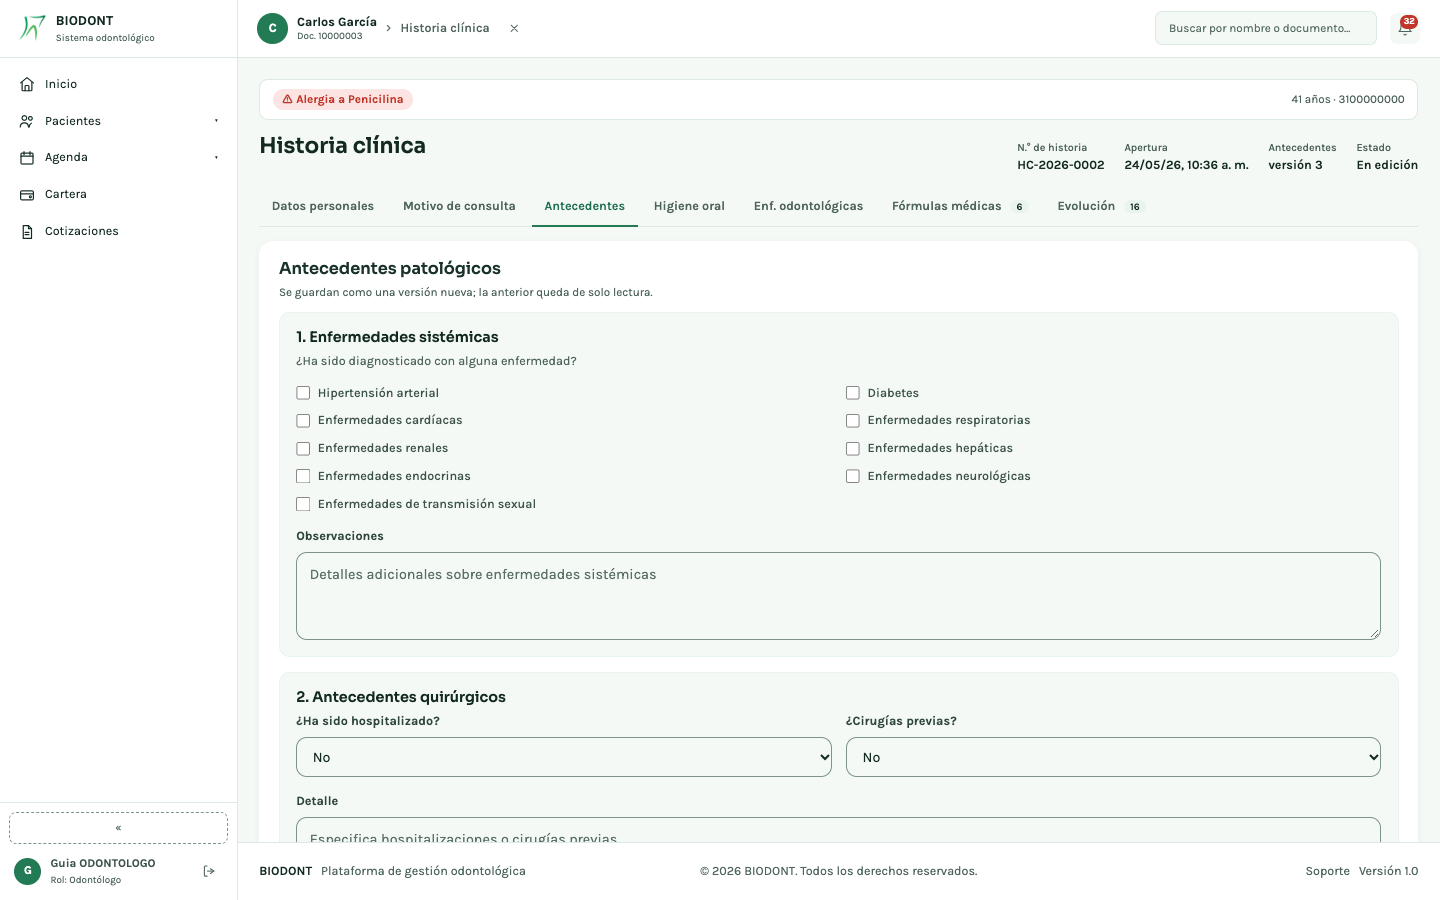
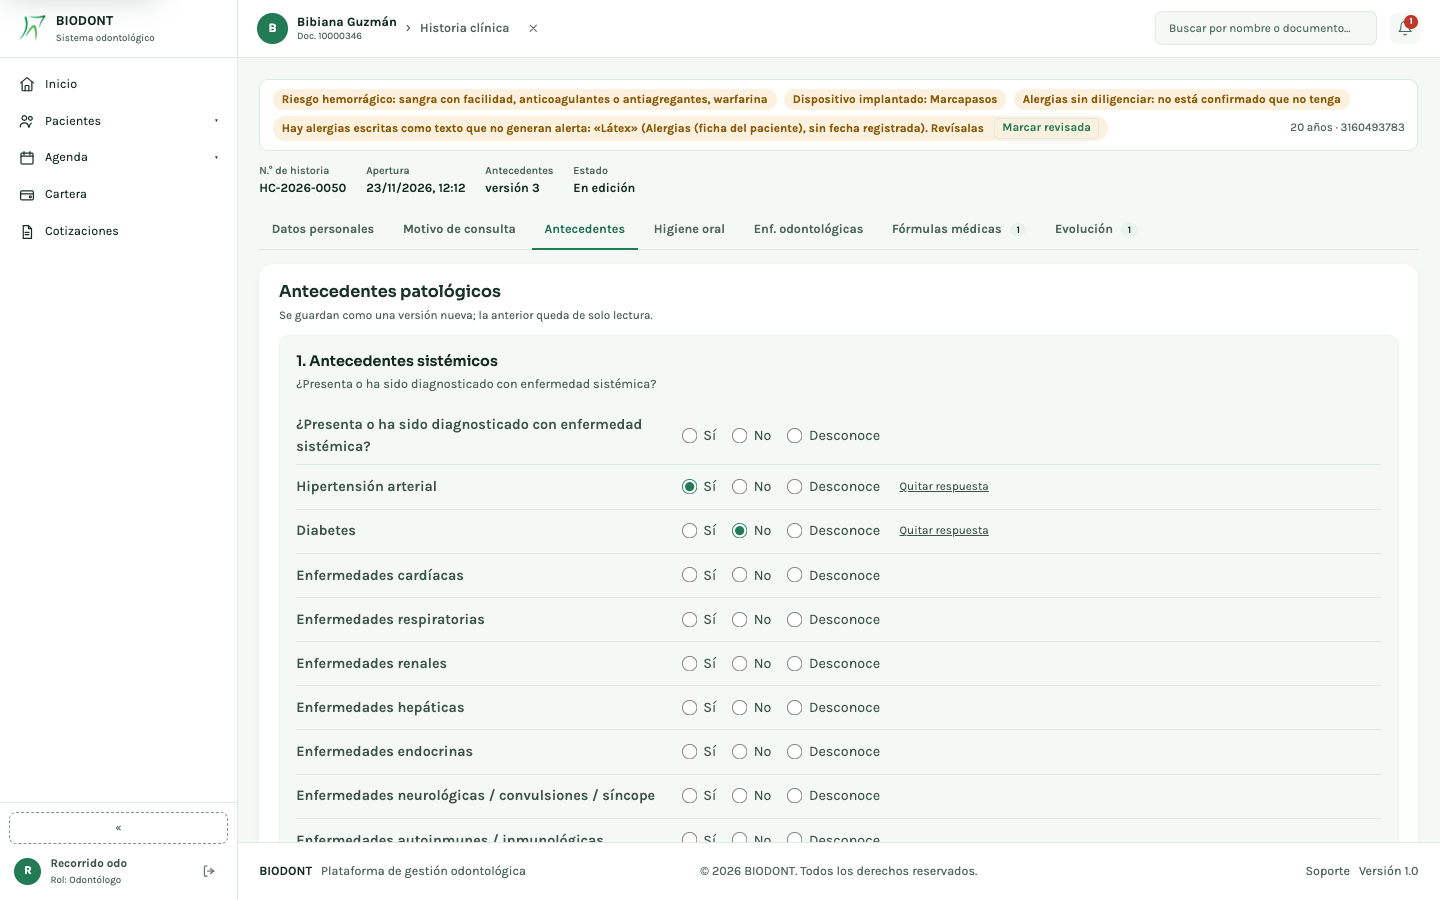
Manual: publicado desde el workspace (2026-11-24)

diff --git a/Manual-Biodont.html b/Manual-Biodont.html
@@ -174,8 +174,8 @@ table.constancia td{height:42px}
 
 <h1>Manual de Biodont</h1>
 <p class="sub">Sistema de gestión para consultorio odontológico · Versión 1.0</p>
-<p class="sub" id="build-manual">Describe Biodont con el servidor <code>638f10a</code> y las pantallas <code>8c1311b</code> (versión de la pantalla <code>main-CBP3PXPW</code>) · revisado el 2026-11-20.</p>
-<!-- Detalle técnico: servidor (backend) 638f10a, pantallas (front odontograma) 8c1311b, bundle main-CBP3PXPW; validado el 2026-11-20. Si la versión de su pantalla es otra, este manual puede no coincidir. -->
+<p class="sub" id="build-manual">Describe Biodont con el servidor <code>0a2cce7</code> y las pantallas <code>8b5c2a6</code> (versión de la pantalla <code>main-6RF6ECQT</code>) · revisado el 2026-11-24.</p>
+<!-- Detalle técnico: servidor (backend) 0a2cce7, pantallas (front odontograma) 8b5c2a6, bundle main-6RF6ECQT (master con la tanda «pedidos del consultorio» P1–P7 y Q1–Q8 y la medicación actual con radios, desplegado el 2026-11-24); validado el 2026-11-24. Si la versión de su pantalla es otra, este manual puede no coincidir. -->
 
 <div class="caja nota">
   <span class="et">Cómo está organizado</span>
@@ -637,10 +637,80 @@ crea una nueva en cada visita: lo que se registra por visita es la <a href="#ate
 </ol>
 
 <figure>
-  <img src="capturas/06-historia-clinica.png" alt="Historia clínica con sus pestañas y la franja de alergias">
-  <figcaption>La historia clínica, con sus pestañas y, arriba, la franja de alergias del
-  paciente.</figcaption>
+  <img src="capturas/06-historia-clinica.png" alt="Historia clínica en la pestaña Antecedentes, con la franja de condiciones arriba y las filas con Sí, No y Desconoce">
+  <figcaption>La historia clínica, con sus pestañas y, arriba, la franja de condiciones del
+  paciente (aquí, riesgo hemorrágico y un dispositivo implantado). Abajo, la pestaña Antecedentes.</figcaption>
 </figure>
+
+<h3>Datos personales</h3>
+<p>En la pestaña <b>Datos personales</b> están los datos administrativos de la historia. Lo que se escribe aquí es:</p>
+<ul>
+  <li><b>Número de historia clínica</b> y, junto a él, <b>Número de hoja (opcional)</b>: el número de la hoja o tarjeta de papel que el paciente
+  tiene en el archivo del consultorio. Es <b>uno por paciente</b> (no uno por atención), puede llevar ceros a la izquierda («0345») y no se exige que sea
+  distinto del de otro paciente. El <b>Resumen</b> del paciente lo muestra junto al número de historia («Historia HC-… · Hoja N»).</li>
+  <li><b>Municipio / Departamento</b> (antes «Lugar de residencia»; el dato es el mismo), <b>Ocupación</b>, <b>Estado civil</b> y <b>Sexo</b>.</li>
+  <li>El acompañante, en este orden: <b>Nombre del acompañante</b>, <b>Documento del acompañante</b>, <b>Parentesco</b> y <b>Teléfono del acompañante</b>.
+  El acompañante <b>solo acompaña</b>: no es el representante legal del paciente ni autoriza nada.</li>
+</ul>
+<p>Estos datos se ven pero <b>no se editan aquí</b>, porque se corrigen en la ficha del paciente: <b>Tipo de documento</b>, <b>Documento de identidad</b>,
+<b>Teléfono</b>, <b>Correo electrónico</b>, nombres y apellidos, fecha de nacimiento, EPS y dirección. Si la ficha no tiene el dato, el campo dice
+«Sin registrar en la ficha».</p>
+<figure>
+  <img src="capturas/83-datos-personales.png" alt="Pestaña Datos personales con el número de hoja, los datos de la ficha en solo lectura y los del acompañante">
+  <figcaption>Datos personales de una paciente de ejemplo: el número de hoja junto al de historia, los datos de la ficha en solo lectura (más oscuros) y,
+  abajo, «Municipio / Departamento» y el acompañante con su documento.</figcaption>
+</figure>
+
+<h3 id="antecedentes-plantilla">Antecedentes: la plantilla del consultorio</h3>
+<p>La pestaña <b>Antecedentes</b> sigue la plantilla del consultorio, en siete bloques: <b>1. Antecedentes sistémicos</b>, <b>2. Antecedentes quirúrgicos y
+hospitalarios</b>, <b>3. Medicación actual</b>, <b>4. Alergias</b> (se llenan como se explica en <a href="#alergias">Registrar una alergia</a>),
+<b>5. Antecedentes hematológicos</b>, <b>6. Gineco-obstétricos</b> y <b>7. Hábitos generales</b>. Cada bloque tiene su cuadro de <b>Observaciones</b>.</p>
+<ul>
+  <li><b>Cada pregunta se responde con Sí, No o Desconoce</b>, en una misma línea. Una pregunta sin responder queda <b>sin diligenciar</b> (no es un «No»).
+  «Desconoce» significa que se preguntó y el paciente no sabe.</li>
+  <li><b>Quitar respuesta</b> aparece junto a las preguntas que ya tienen respuesta y la devuelve a «Sin diligenciar». Si esa respuesta <b>ya estaba guardada</b>,
+  la barra de guardado nombra la pregunta y pide el <b>motivo</b>, como se explica arriba en «Devolver una respuesta a «Sin diligenciar» pide el motivo».</li>
+  <li><b>«Especifique», «¿Cuál?» y los demás textos de apoyo solo se habilitan con la respuesta que los pide</b> (casi siempre «Sí»; en tabaco y alcohol, también
+  «Exconsumidor»). Si cambia la respuesta a otra, <b>el texto se vacía</b> a la vista: no queda escrito en silencio. Por ejemplo, con «¿Tiene dispositivos
+  médicos implantados?» en «Sí» se habilita «¿Cuál?» (Ej. Marcapasos); si pasa a «No», «¿Cuál?» se borra.</li>
+  <li><b>1. Sistémicos</b>: la pregunta general «¿Presenta o ha sido diagnosticado con enfermedad sistémica?» y una fila por cada grupo (hipertensión, diabetes, cardíacas,
+  respiratorias, renales, hepáticas, endocrinas, neurológicas / convulsiones / síncope, autoinmunes / inmunológicas, infecciosas relevantes, oncológicos, óseas y
+  transmisión sexual), más «Otra enfermedad» (Sí o No, con «Especifique»).</li>
+  <li><b>2. Quirúrgicos y hospitalarios</b>: hospitalizaciones previas (con «motivo y fecha aproximada»), cirugías previas (con «cirugía y fecha aproximada»),
+  complicaciones quirúrgicas y dispositivos médicos implantados.</li>
+  <li><b>3. Medicación actual</b>: «¿Actualmente toma medicamentos?» con una lista desplegable (Sin diligenciar, Sí, No); solo con «Sí» aparece la tabla de
+  medicamento, dosis y frecuencia. <b>Esta lista es lo que el paciente refiere tomar</b>; las fórmulas que el consultorio emite se registran aparte (ver
+  <a href="#formulas-ordenes">Fórmulas, órdenes de estudio y remisiones</a>).</li>
+  <li><b>5. Hematológicos</b>: ¿sangra con facilidad?, trastorno de coagulación diagnosticado, anemia, hemofilia, trombocitopenia / otro trastorno (con «Especifique») y
+  anticoagulantes / antiagregantes.</li>
+  <li><b>6. Gineco-obstétricos</b>: empieza con <b>¿Aplica este apartado?</b> (<b>Aplica</b> o <b>No aplica</b>). Con «No aplica» se ocultan las demás preguntas y la
+  pantalla dice «No aplica: las demás preguntas del apartado no se guardan.». Si ya tenían respuestas guardadas, pasar a «No aplica» las deja sin diligenciar y
+  <b>pide el motivo</b>, igual que «Quitar respuesta». El <b>embarazo</b> admite «Desconoce / posible»; el trimestre solo se pregunta con embarazo en «Sí».</li>
+  <li><b>7. Hábitos</b>: tabaco y alcohol con Sí, No o <b>Exconsumidor</b> (con tipo de tabaco —cigarrillo, tabaco, vapeador u otro—, cantidad o frecuencia), y sustancias
+  psicoactivas (sustancia, frecuencia y último consumo).</li>
+</ul>
+<figure>
+  <img src="capturas/84-antecedentes-quirurgicos.png" alt="Bloque 2 de antecedentes: hospitalizaciones con su motivo, cirugías con el texto deshabilitado y un marcapasos como dispositivo implantado">
+  <figcaption>Bloque 2: con «Hospitalizaciones previas» en «Sí» el texto de motivo y fecha está habilitado; con «Cirugías previas» en «No» está
+  deshabilitado. «Quitar respuesta» aparece solo donde hay respuesta.</figcaption>
+</figure>
+<figure>
+  <img src="capturas/85-antecedentes-gineco.png" alt="Bloque 6 de antecedentes: ¿Aplica este apartado?, embarazo, lactancia y embarazo de alto riesgo">
+  <figcaption>Bloque 6, con «¿Aplica este apartado?» sin responder y las demás preguntas a la vista.</figcaption>
+</figure>
+<div class="caja nota">
+  <span class="et">Lo guardado antes de esta plantilla se sigue leyendo</span>
+  <p>Los antecedentes sistémicos antes eran casillas. En una historia vieja, una casilla <b>marcada</b> se lee como <b>«Sí»</b>; una casilla <b>sin marcar</b> se lee
+  como <b>«Sin diligenciar»</b>, nunca como «No», porque nadie respondió «No». Lo que el paciente refirió con texto libre sigue en las observaciones. Al guardar de
+  nuevo, queda en el formato nuevo y la versión anterior se conserva.</p>
+</div>
+<div class="caja aviso">
+  <span class="et">Alertas nuevas en la franja de condiciones</span>
+  <p>Además de las que ya había, la franja de arriba de las pantallas del paciente avisa de: <b>riesgo hemorrágico</b> cuando hay «Sí» en sangra con facilidad,
+  trastorno de coagulación, hemofilia, trombocitopenia o anticoagulantes / antiagregantes; <b>dispositivo implantado</b>, con su nombre («Dispositivo implantado:
+  Marcapasos»); y <b>embarazo</b> también con «Desconoce / posible» (dice «posible embarazo (no lo sabe)»), embarazo de alto riesgo y lactancia. Con el bloque
+  gineco-obstétrico en «No aplica» no salta nada de él. «Desconoce» en una enfermedad <b>no</b> la afirma: no genera alerta.</p>
+</div>
 
 <div class="caja aviso">
   <span class="et">Cada botón guarda lo suyo</span>
@@ -787,6 +857,13 @@ remisiones</b>, <b>Archivos</b> y <b>Constancias y correcciones</b>.</p>
   diagnóstico, la fórmula, pedir un estudio, el cobro cuando ya eligió el cargo…): si hay algo escrito y pulsa <b class="btn">Cancelar</b>, la ✕ o Escape, el sistema <b>no cierra
   sin más</b>: pregunta «Hay datos escritos. ¿Descartarlos y cerrar?» y ofrece <b class="btn">Seguir escribiendo</b> o <b class="btn">Descartar</b>. Con la ventana
   vacía, cierra directamente.</li>
+  <li><b>El campo Diagnóstico busca en la CIE-10 oficial.</b> Escriba parte del nombre o el código (por ejemplo «caries» o «K02.1»): el sistema
+  ofrece coincidencias de la CIE-10 en español del Ministerio de Salud (SISPRO). Elíjala con el ratón o con las flechas y <b class="btn">Enter</b>: se llenan el
+  texto y el código, y la ventana muestra <b>«Código elegido: … · Quitar»</b>. Los nombres oficiales vienen <b>sin tildes</b> («Maloclusion de tipo no
+  especificado»); se pueden corregir a mano, y corregir tildes no genera ningún aviso. Si, en cambio, cambia el texto por <b>otro diagnóstico</b>, la ventana avisa
+  que el código elegido <b>no corresponde</b> y le pide revisar que sea el diagnóstico; no lo cambia por usted: <b>Quitar</b> o corregir el código es decisión suya.
+  También puede escribir el diagnóstico a mano, sin elegir ninguna coincidencia. Mientras el catálogo se descarga, el campo dice <b>«Cargando el catálogo…»</b>; si no se pudo cargar, dice
+  <b>«No se pudo cargar el catálogo: escribe el diagnóstico a mano.»</b> y el diagnóstico se registra igual, sin código. Si quita el código elegido con <b>Quitar</b>, el cursor vuelve al campo del diagnóstico.</li>
   <li>Debajo, <b>Sugeridos por el odontograma</b> propone diagnósticos con su código CIE-10 —y,
   cuando lo hay, el CIE-11— a partir de lo marcado. Solo se guarda lo que usted <b class="btn">Confirmar</b>: el sistema
   sugiere, el diagnóstico lo hace el profesional.</li>
@@ -798,7 +875,27 @@ remisiones</b>, <b>Archivos</b> y <b>Constancias y correcciones</b>.</p>
   solo lectura: se editan en la historia clínica.</li>
   <li>En <b>Próximo control</b> elija un atajo (1 semana, 15 días, 1 mes, 6 meses) o una fecha, y
   el motivo. Recepción lo verá en su Inicio para agendarlo.</li>
+  <li>Al final de la pestaña <b>Consulta</b> está <b>Medicación</b>, con <b>Sí</b> / <b>No</b> y <b class="btn">+ Agregar medicamento</b>. Cada medicamento se
+  receta como una <b>fórmula médica</b>, con su revisión de alergias, y queda <b>ligada a esta atención</b>: <b class="btn">+ Agregar medicamento</b> (o
+  elegir <b>Sí</b>) abre la fórmula en la historia clínica y, al emitirla, usted <b>vuelve solo a la atención</b>. La lista muestra cada medicamento con la fecha de su
+  fórmula. <b>«Sí» no se guarda aparte</b>: significa que hay fórmulas vigentes ligadas a esta atención; mientras las haya, «No» está deshabilitado y, para quitar
+  una, se anula desde <b>Fórmulas médicas</b>. Se puede agregar medicación en una atención ya firmada: la fórmula es su propio documento. Como las fórmulas son
+  solo del odontólogo, a quien no puede verlas la sección le dice «No tienes permiso para ver la medicación.»</li>
 </ol>
+
+<figure class="estrecha">
+  <img src="capturas/86-medicacion-atencion.png" alt="Sección Medicación de la atención con Sí marcado, un medicamento y la nota de que Sí significa que hay fórmulas ligadas">
+  <figcaption>Medicación de la atención, con una fórmula ya emitida: «Sí» está marcado porque hay una fórmula ligada.</figcaption>
+</figure>
+
+<figure>
+  <img src="capturas/87-diagnostico-buscador-cie10.png" alt="Ventana Nuevo diagnóstico con el buscador de la CIE-10 mostrando una coincidencia con su código">
+  <figcaption>Al escribir «maloclus» el buscador ofrece la coincidencia oficial, con su código (K07.4).</figcaption>
+</figure>
+<figure>
+  <img src="capturas/88-diagnostico-codigo-aviso.png" alt="Ventana Nuevo diagnóstico con el código K07.4 elegido y el aviso de que no corresponde al texto escrito">
+  <figcaption>Con el código elegido, y el texto cambiado a otro diagnóstico: la ventana avisa que el código no corresponde.</figcaption>
+</figure>
 
 <figure>
   <img src="capturas/22-atencion-borrador.png" alt="Atención sin firmar con sus pasos y sus pestañas">
@@ -878,7 +975,17 @@ consulta.</p>
   <li>Elija la <b>pieza</b> (o marque <b>No aplica</b>), el tratamiento en curso si lo hay, y
   escriba <b>lo que se hizo</b> y lo que queda <b>por hacer en la próxima sesión</b>.</li>
   <li>El auxiliar además indica la <b>actuación autorizada</b> que ejecutó.</li>
+  <li><b>Procedimiento (opcional)</b>: cuando <b>no hay un tratamiento en curso</b> (el campo «Tratamiento en curso» dice «Sin tratamiento») y quien registra no es el
+  auxiliar, aparece un buscador del <b>tarifario</b>: escriba el nombre o el código («exodoncia», «230101») y elija. La evolución queda con ese procedimiento y su
+  código. Dice <b>«No genera ningún cobro: los cobros salen del presupuesto.»</b>: es solo el registro de lo que se hizo. Los procedimientos propios del consultorio
+  (los que no son del catálogo oficial) salen como <b>«propio · no va al RIPS»</b>, ya al elegirlos en el buscador y después en la lista de la evolución. Si el buscador no carga, la evolución se puede
+  registrar igual, sin procedimiento.</li>
 </ol>
+
+<figure>
+  <img src="capturas/89-evolucion-procedimiento.png" alt="Ventana Registrar evolución con el buscador de procedimientos mostrando coincidencias de exodoncia con su código">
+  <figcaption>Registrar evolución sin tratamiento en curso: el buscador de «Procedimiento (opcional)» y, debajo, el aviso de que no genera ningún cobro.</figcaption>
+</figure>
 
 <figure>
   <img src="capturas/26-evolucion.png" alt="Pestaña Evolución con una sesión registrada">
@@ -888,7 +995,7 @@ consulta.</p>
 
 <h3>Corregir un diagnóstico</h3>
 <p>Si escribió mal un diagnóstico, pulse <b class="btn">Corregir</b> junto a él y arregle el
-texto, el código o el tipo. <b>No use «Quitar» para volver a añadirlo</b>: al corregir se
+texto, el código o el tipo; la ventana usa el <b>mismo buscador de la CIE-10</b> que «Nuevo diagnóstico» y ya trae elegido el código que el diagnóstico tenía. <b>No use «Quitar» para volver a añadirlo</b>: al corregir se
 conserva quién lo registró y cuándo, y al borrar y recrear esos dos datos cambian — en un
 documento que se conserva quince años, eso no es lo mismo.</p>
 
@@ -955,7 +1062,7 @@ alteró.</p>
   <tbody>
     <tr><td><b class="btn">Cerrar atención</b></td><td>Da la visita por terminada. Es el último paso del ciclo.</td></tr>
     <tr><td><b class="btn">Agregar corrección</b></td><td>Añade una <b>adenda</b>, en la pestaña <b>Constancias y correcciones</b>. Lo firmado no se toca: la corrección se suma después, fechada y firmada, como manda la norma para un documento clínico.</td></tr>
-    <tr><td><b class="btn">Imprimir (PDF)</b></td><td>Descarga el impreso de la atención con todo lo registrado, sus firmas y su huella. Solo lo obtiene quien puede ver todo su contenido: a un rol que no ve alguna parte (el auxiliar sin actuaciones habilitadas, por ejemplo) el botón aparece desactivado y, al pasar el cursor, dice por qué. Si hay cambios sin guardar, guarde antes: el impreso es lo guardado.</td></tr>
+    <tr><td><b class="btn">Imprimir (PDF)</b></td><td>Descarga el impreso de la atención con todo lo registrado, sus firmas y su huella. Solo lo obtiene quien puede ver todo su contenido: a un rol que no ve alguna parte (el auxiliar sin actuaciones habilitadas, por ejemplo) el botón aparece desactivado y, al pasar el cursor, dice por qué. Si hay cambios sin guardar, guarde antes: el impreso es lo guardado. Trae, junto al número de hoja, los datos del <b>acompañante</b> que tengan valor (el PDF de evoluciones también), y una línea <b>«Medicación: Sí — fórmula del …»</b> por cada fórmula vigente ligada (o «No»), sin dosis; a quien no puede ver la medicación no se le imprime esa línea.</td></tr>
     <tr><td><b class="btn">Comprobar integridad</b></td><td>Verifica que el contenido firmado no ha sido alterado. Si algo cambió por fuera del sistema, lo dice.</td></tr>
     <tr><td><b class="btn">Anular</b></td><td>Deja la atención sin efecto <b>dejando constancia</b> de quién la anuló y por qué. No la borra. <b>Tampoco anula sus evoluciones</b>: antes de confirmar, la ventana dice cuántas siguen vigentes y en cuántos tratamientos, y al terminar lo repite.</td></tr>
   </tbody>
@@ -982,7 +1089,7 @@ responsable clínico (el odontólogo que Administración marcó como tal), aunqu
 constancia de quién y por qué.</p>
 
 <h3>La fórmula médica</h3>
-<p>Vive en la <b>historia clínica</b> del paciente, no en la atención.</p>
+<p>Vive en la <b>historia clínica</b> del paciente. También se puede emitir <b>desde una atención</b> (sección «Medicación», ver <a href="#atender">Atender y firmar la atención</a>): esa fórmula queda ligada a la atención y, en la lista, dice <b>«De la atención N»</b> con un enlace que lleva a ella. Las que se emiten desde Fórmulas médicas no dicen nada, como siempre.</p>
 <ol class="pasos">
   <li>Abra el paciente → <b class="btn">Historia clínica</b> → pestaña <b class="btn">Fórmulas médicas</b>.</li>
   <li>Pulse <b class="btn">+ Nueva fórmula</b>. Arriba de la ventana el sistema recuerda las <b>alergias</b>
@@ -1036,7 +1143,7 @@ constancia de quién y por qué.</p>
 caracteres: la fórmula anulada se queda en la lista, marcada, con su motivo.</p>
 <figure>
   <img src="capturas/45-formula-lista.png" alt="Lista de fórmulas médicas con una fórmula vigente">
-  <figcaption>La fórmula vigente, con su diagnóstico y sus medicamentos.</figcaption>
+  <figcaption>La fórmula vigente, con su diagnóstico y sus medicamentos; esta salió de una atención y lo dice («De la atención 1»).</figcaption>
 </figure>
 
 <h3>Órdenes de estudio y remisiones</h3>
@@ -2837,8 +2944,8 @@ odontogramas.</p>
   historia clínica: una alergia registrada con su agente dice lo mismo en todas ellas, sin
   copias que puedan discrepar.</p>
   <p>Además, todas las pantallas del paciente (Atención, Historia clínica, Odontograma, Periodontograma, Tratamientos, Presupuesto,
-  Documentos y Archivos) llevan arriba la <b>franja de condiciones</b>: cada alergia con su agente, el riesgo hemorrágico, el embarazo o la
-  lactancia, y si las alergias están sin diligenciar o el paciente no sabe. Si la consulta falla, la franja dice que falló, no «sin alertas».
+  Documentos y Archivos) llevan arriba la <b>franja de condiciones</b>: cada alergia con su agente, el riesgo hemorrágico, el dispositivo implantado, el embarazo o la
+  lactancia, y si las alergias están sin diligenciar o el paciente no sabe. Si la consulta falla, la franja dice que falló, no «sin alertas». En el celular (pantalla estrecha), lo que no es clínico —hoy, «Sin antecedentes registrados»— llega plegado tras el botón <b class="btn">Ver 1 aviso</b> (o «Ver N avisos»); <b class="btn">Ocultar avisos</b> lo vuelve a plegar. El botón solo aparece si, además de lo plegable, queda algo más a la vista; si no, la franja se muestra tal cual. Las alertas de alergia y de riesgo se ven siempre.
   A Recepción y a Administración no se les muestra: no reciben los antecedentes.</p>
 </div>
 
